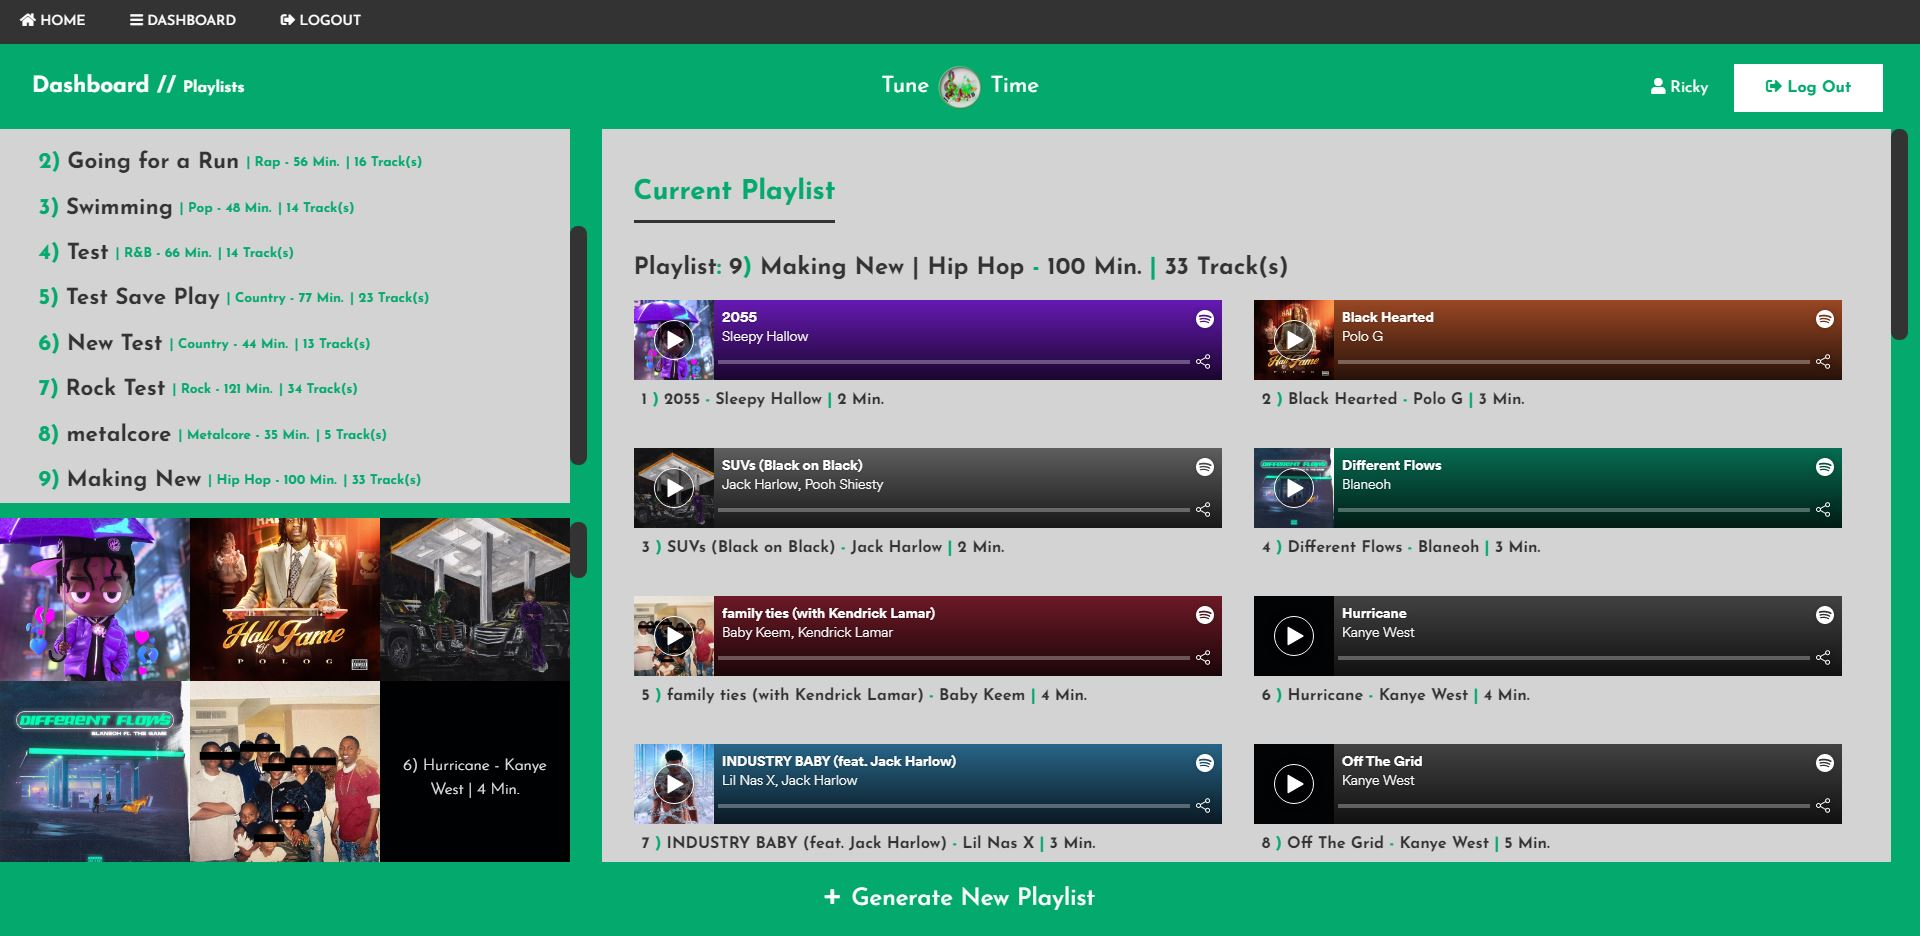
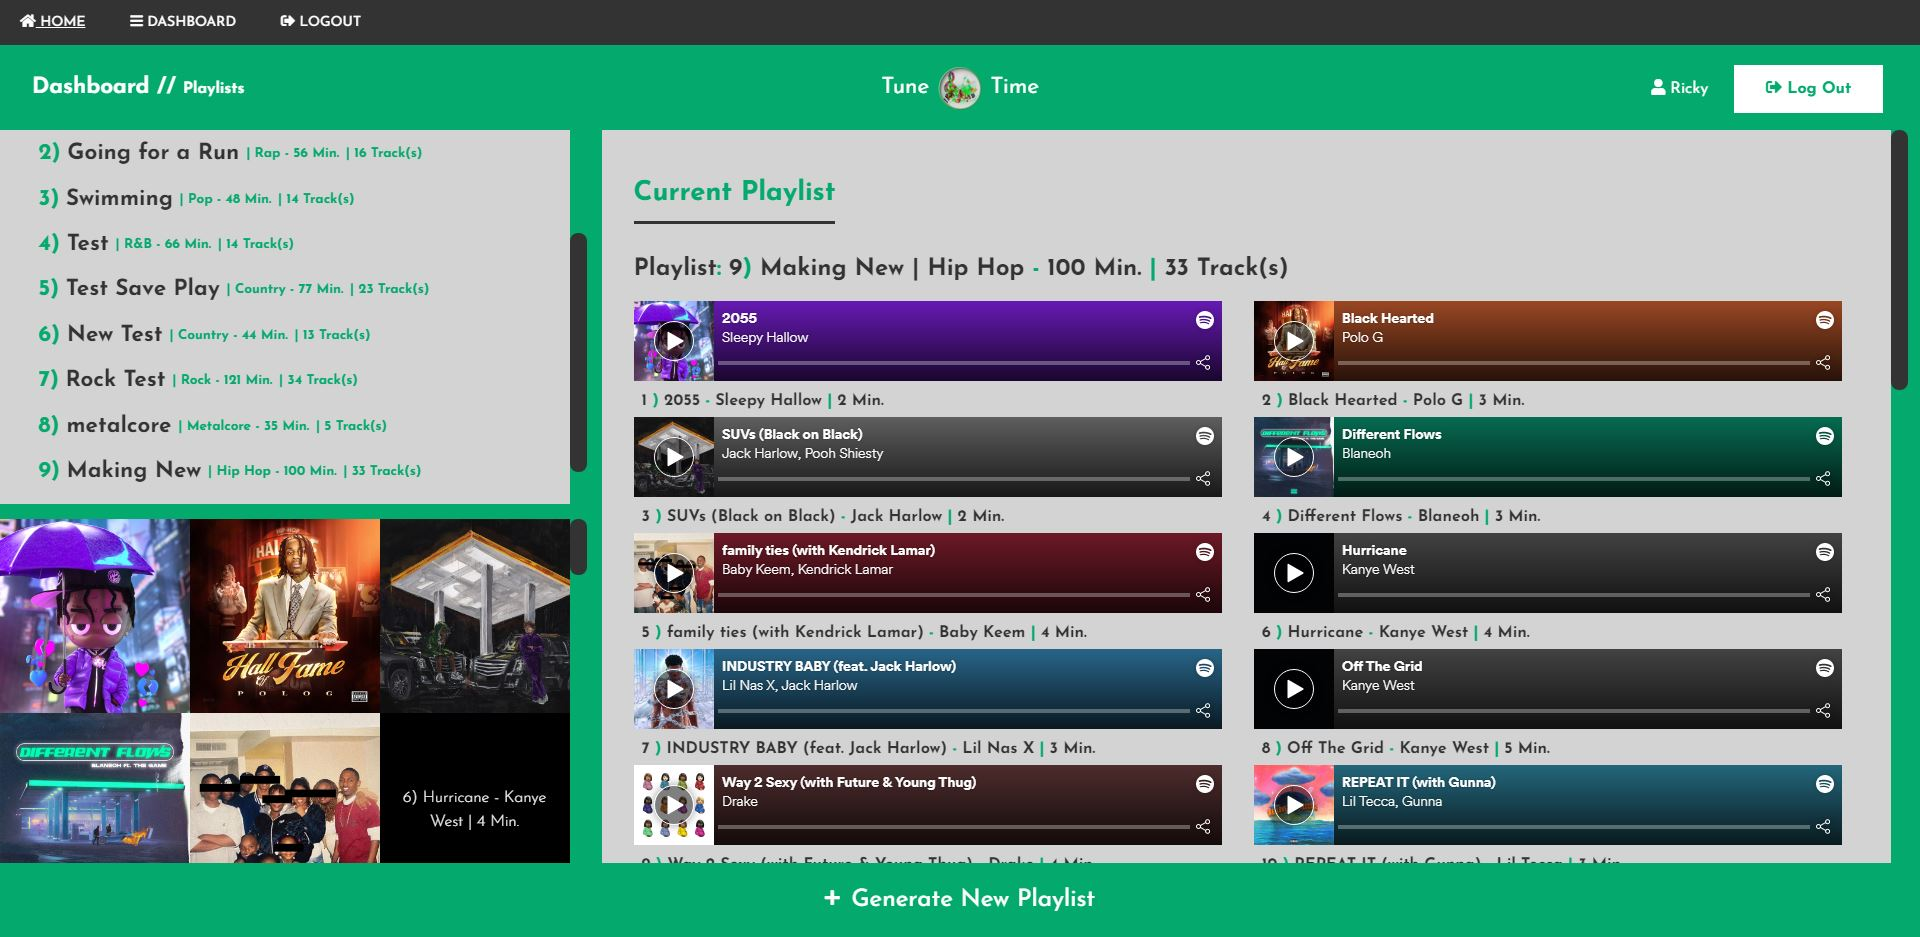
row fix // SASS conversion

diff --git a/public/css/style.css b/public/css/style.css
@@ -103,7 +103,9 @@ header {
   -ms-flex-wrap: wrap;
       flex-wrap: wrap;
   width: 100%;
-  grid-gap: 2em;
+  -webkit-column-gap: 2em;
+          column-gap: 2em;
+  row-gap: 0em;
 }
 
 .playListTracks {

diff --git a/public/css/style.scss b/public/css/style.scss
@@ -72,7 +72,8 @@ header {
   height: 100%;
   flex-wrap: wrap;
   width: 100%;
-  grid-gap: 2em;
+  column-gap: 2em;
+  row-gap: 0em;
 }
 .playListTracks {
   display: flex;
